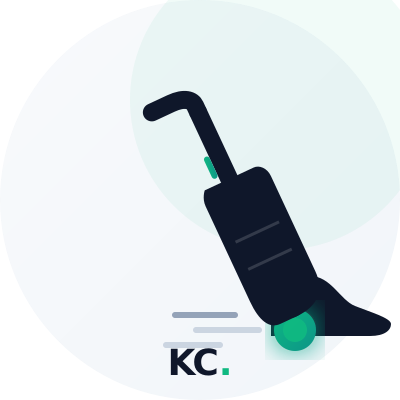
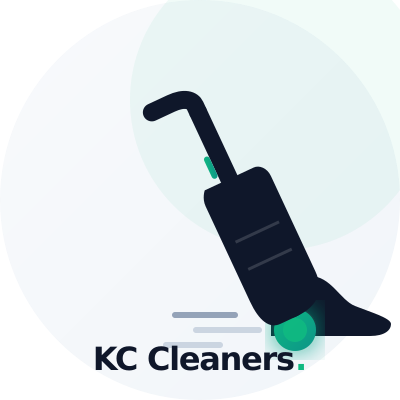
Add LocalBusiness structured data, service area section, and update LinkedIn profile
- Add CleaningBusiness schema.org structured data with contact info, services, and coverage area
- Add commented Google Analytics placeholder with setup instructions
- Replace testimonials section with service area section listing Kansas and Missouri cities
- Update LinkedIn profile picture to show "KC Cleaners" instead of "KC" initials
- Add responsive styling for service area grid with two-column layout

Changed region(s): [[0.24, 0.84, 0.78, 0.96]]

diff --git a/src/pages/Home.jsx b/src/pages/Home.jsx
@@ -38,24 +38,6 @@ const services = [
     }
 ];
 
-const testimonials = [
-    {
-        quote: "KC Cleaners transformed our office. The consistency and attention to detail is something we've never experienced with previous cleaning services.",
-        name: "Sarah M.",
-        role: "Office Manager, Overland Park"
-    },
-    {
-        quote: "We switched to KC Cleaners six months ago and haven't looked back. Their team is professional, reliable, and genuinely cares about the quality of their work.",
-        name: "James R.",
-        role: "Facility Director, Lenexa"
-    },
-    {
-        quote: "What sets them apart is the communication. If there's ever an issue, they're on it before I even have to reach out. Truly a partner, not just a vendor.",
-        name: "Patricia L.",
-        role: "Property Manager, Kansas City"
-    }
-];
-
 const Home = () => {
     const pageRef = useScrollReveal();
 
@@ -108,27 +90,6 @@ const Home = () => {
                 </div>
             </section>
 
-            {/* Testimonials Section */}
-            <section id="testimonials" className="section testimonials-section">
-                <div className="container">
-                    <div className="section-header text-center reveal">
-                        <h2>What Our Clients Say</h2>
-                        <p>Trusted by businesses across the Kansas City Metro.</p>
-                    </div>
-
-                    <div className="testimonials-grid">
-                        {testimonials.map((testimonial, index) => (
-                            <blockquote key={index} className="glass-card testimonial-card reveal" style={{ transitionDelay: `${index * 0.1}s` }}>
-                                <p className="testimonial-quote">&ldquo;{testimonial.quote}&rdquo;</p>
-                                <footer className="testimonial-author">
-                                    <cite className="testimonial-name">{testimonial.name}</cite>
-                                    <span className="testimonial-role">{testimonial.role}</span>
-                                </footer>
-                            </blockquote>
-                        ))}
-                    </div>
-                </div>
-            </section>
 
             {/* Why Us Section */}
             <section id="why-us" className="section why-us-section">
@@ -167,6 +128,46 @@ const Home = () => {
                             </div>
                         </div>
                     </div>
+                </div>
+            </section>
+
+            {/* Service Area Section */}
+            <section id="service-area" className="section service-area-section">
+                <div className="container">
+                    <div className="section-header text-center reveal">
+                        <h2>Serving the Kansas City Metro</h2>
+                        <p>We proudly provide commercial cleaning services across the greater KC area.</p>
+                    </div>
+
+                    <div className="service-area-grid reveal" style={{ transitionDelay: '0.1s' }}>
+                        <div className="area-column">
+                            <h4>Kansas</h4>
+                            <ul>
+                                <li>Kansas City, KS</li>
+                                <li>Overland Park</li>
+                                <li>Olathe</li>
+                                <li>Lenexa</li>
+                                <li>Shawnee</li>
+                                <li>Leawood</li>
+                                <li>Prairie Village</li>
+                                <li>Merriam</li>
+                                <li>Mission</li>
+                            </ul>
+                        </div>
+                        <div className="area-column">
+                            <h4>Missouri</h4>
+                            <ul>
+                                <li>Kansas City, MO</li>
+                                <li>Lee's Summit</li>
+                                <li>Independence</li>
+                                <li>Blue Springs</li>
+                                <li>Gladstone</li>
+                                <li>Liberty</li>
+                            </ul>
+                        </div>
+                    </div>
+
+                    <p className="service-area-note reveal" style={{ transitionDelay: '0.2s' }}>Don't see your city? <a href="mailto:madison@kc-cleaners.com">Reach out</a> — we may still be able to serve you.</p>
                 </div>
             </section>
 

diff --git a/index.html b/index.html
@@ -26,6 +26,63 @@
     <!-- Additional SEO -->
     <meta name="robots" content="index, follow" />
     <link rel="canonical" href="https://kc-cleaners.com" />
+
+    <!-- LocalBusiness Structured Data -->
+    <script type="application/ld+json">
+    {
+      "@context": "https://schema.org",
+      "@type": "CleaningBusiness",
+      "name": "KC Cleaners",
+      "url": "https://kc-cleaners.com",
+      "telephone": "+1-913-742-2536",
+      "email": "madison@kc-cleaners.com",
+      "description": "Premium commercial janitorial services for offices, warehouses, and professional spaces across the Kansas City Metro.",
+      "founder": {
+        "@type": "Person",
+        "name": "Madison Coleman"
+      },
+      "areaServed": [
+        { "@type": "City", "name": "Kansas City", "addressRegion": "MO" },
+        { "@type": "City", "name": "Kansas City", "addressRegion": "KS" },
+        { "@type": "City", "name": "Overland Park", "addressRegion": "KS" },
+        { "@type": "City", "name": "Olathe", "addressRegion": "KS" },
+        { "@type": "City", "name": "Lenexa", "addressRegion": "KS" },
+        { "@type": "City", "name": "Shawnee", "addressRegion": "KS" },
+        { "@type": "City", "name": "Leawood", "addressRegion": "KS" },
+        { "@type": "City", "name": "Lee's Summit", "addressRegion": "MO" },
+        { "@type": "City", "name": "Independence", "addressRegion": "MO" },
+        { "@type": "City", "name": "Blue Springs", "addressRegion": "MO" },
+        { "@type": "City", "name": "Prairie Village", "addressRegion": "KS" },
+        { "@type": "City", "name": "Merriam", "addressRegion": "KS" },
+        { "@type": "City", "name": "Mission", "addressRegion": "KS" },
+        { "@type": "City", "name": "Gladstone", "addressRegion": "MO" },
+        { "@type": "City", "name": "Liberty", "addressRegion": "MO" }
+      ],
+      "serviceType": [
+        "Office Cleaning",
+        "Carpet & Rug Cleaning",
+        "Window Cleaning",
+        "Floor Maintenance",
+        "Parking Lot Cleanup",
+        "Industrial Cleaning"
+      ],
+      "image": "https://kc-cleaners.com/images/slick-office-cleaning.png",
+      "logo": "https://kc-cleaners.com/images/brand-logo-dark.svg",
+      "sameAs": []
+    }
+    </script>
+
+    <!-- Google Analytics — Replace G-XXXXXXXXXX with your Measurement ID -->
+    <!-- Get your ID at https://analytics.google.com → Admin → Data Streams → Web -->
+    <!--
+    <script async src="https://www.googletagmanager.com/gtag/js?id=G-XXXXXXXXXX"></script>
+    <script>
+      window.dataLayer = window.dataLayer || [];
+      function gtag(){dataLayer.push(arguments);}
+      gtag('js', new Date());
+      gtag('config', 'G-XXXXXXXXXX');
+    </script>
+    -->
   </head>
   <body>
     <a href="#main-content" class="skip-to-content">Skip to content</a>

diff --git a/src/pages/Home.css b/src/pages/Home.css
@@ -310,6 +310,57 @@
     margin: 0;
 }
 
+/* --- Service Area Section --- */
+.service-area-section {
+    background: var(--bg-secondary);
+}
+
+.service-area-grid {
+    display: grid;
+    grid-template-columns: repeat(2, 1fr);
+    gap: 3rem;
+    max-width: 600px;
+    margin: 0 auto;
+}
+
+.area-column h4 {
+    font-family: var(--font-heading);
+    font-size: 1.1rem;
+    font-weight: 700;
+    color: var(--brand-primary);
+    margin-bottom: 1rem;
+    letter-spacing: 0.02em;
+}
+
+.area-column ul {
+    list-style: none;
+    padding: 0;
+    margin: 0;
+}
+
+.area-column li {
+    padding: 0.4rem 0;
+    color: var(--text-secondary);
+    font-size: 0.95rem;
+    border-bottom: 1px solid rgba(0, 0, 0, 0.04);
+}
+
+.area-column li:last-child {
+    border-bottom: none;
+}
+
+.service-area-note {
+    text-align: center;
+    margin-top: 2.5rem;
+    color: var(--text-secondary);
+    font-size: 0.95rem;
+}
+
+.service-area-note a {
+    color: var(--brand-primary);
+    font-weight: 600;
+}
+
 /* --- Scroll Reveal --- */
 .reveal {
     opacity: 0;
@@ -417,10 +468,13 @@
         height: 260px;
     }
 
-    .services-grid,
-    .testimonials-grid {
+    .services-grid {
         grid-template-columns: 1fr;
         gap: 1.25rem;
+    }
+
+    .service-area-grid {
+        gap: 2rem;
     }
 
     .section-header {
